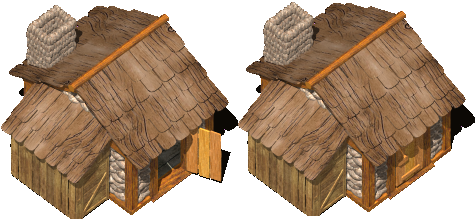
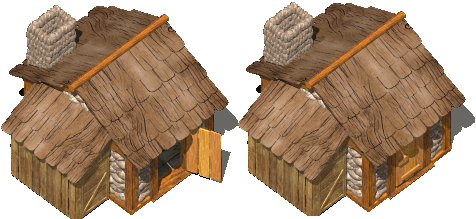
Tomi: Subo las imagenes con sombras semitransparentes.

Changed region(s): [[0.9412, 0.4658, 1.0, 0.6575], [0.4412, 0.6849, 0.5, 0.8493], [0.4412, 0.4932, 0.5, 0.6301]]

diff --git a/TpTaller/src/view/entities/PlayerView.cpp b/TpTaller/src/view/entities/PlayerView.cpp
@@ -30,8 +30,9 @@ void PlayerView::showFrame(SDL_Surface* source, SDL_Surface* screen,
 	Vector3* position = player->getCurrentPos();
 	float x = position->getX();
 	float y = position->getY();
-	offset.x = (int) x + camPos->getX() - clip->w / 2;
-	offset.y = (int) y + camPos->getY() - clip->h + OFFSET_Y;
+	offset.x = (int) x + camPos->getX() - this->anchorPixel->getX();
+	int h = Tile::computePositionTile(0,0).h;
+	offset.y = (int) y + camPos->getY() - this->anchorPixel->getY() - h/2;
 	offset.w = clip->w;
 	offset.h = clip->h;
 
